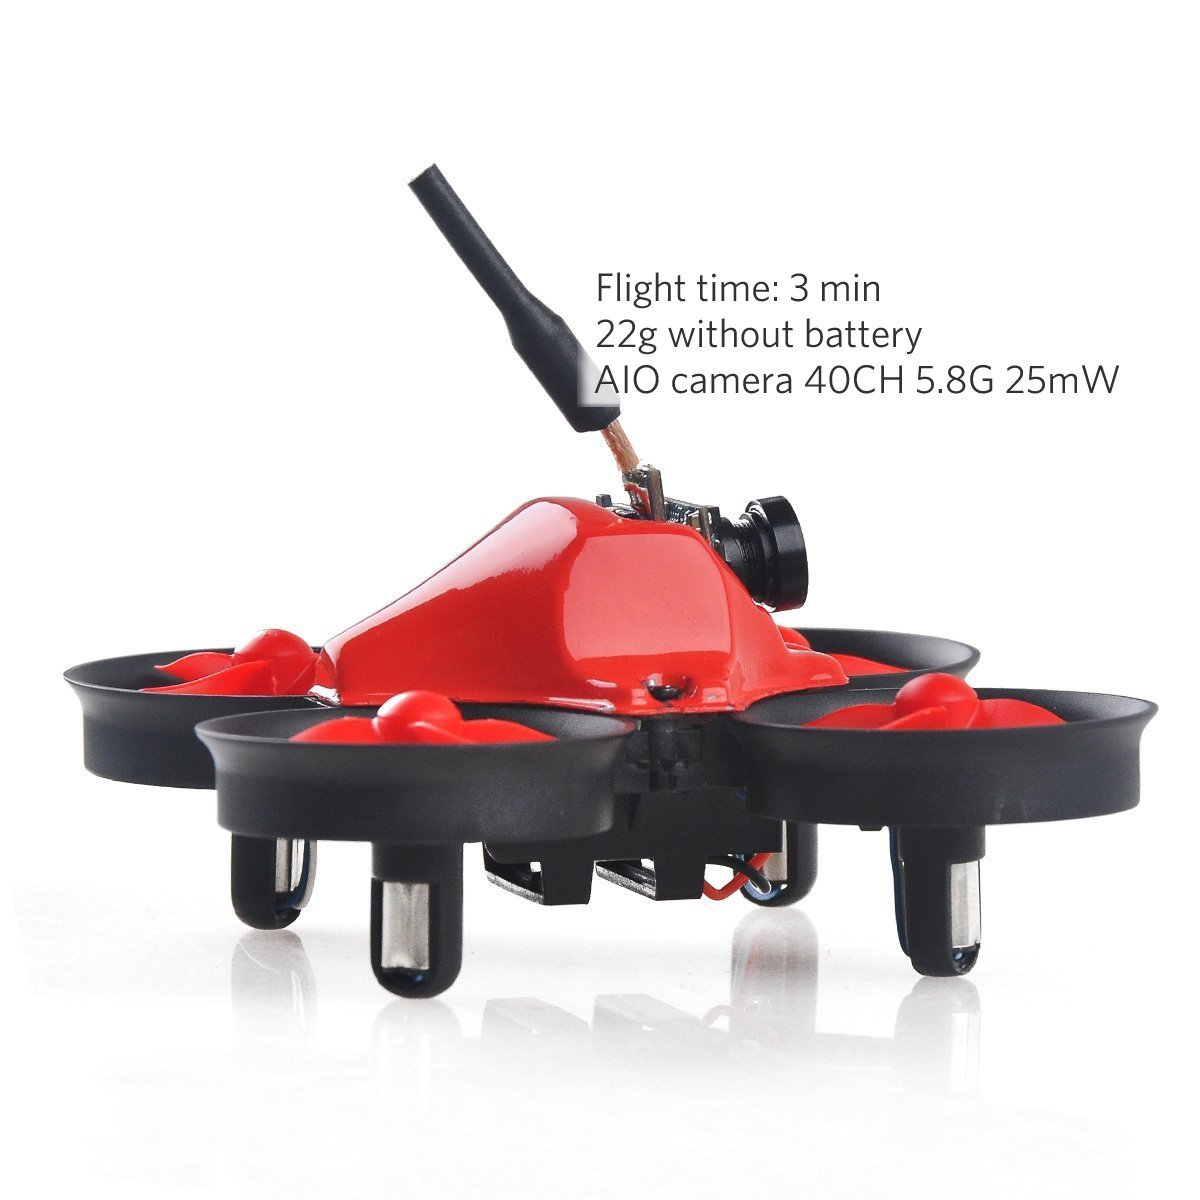
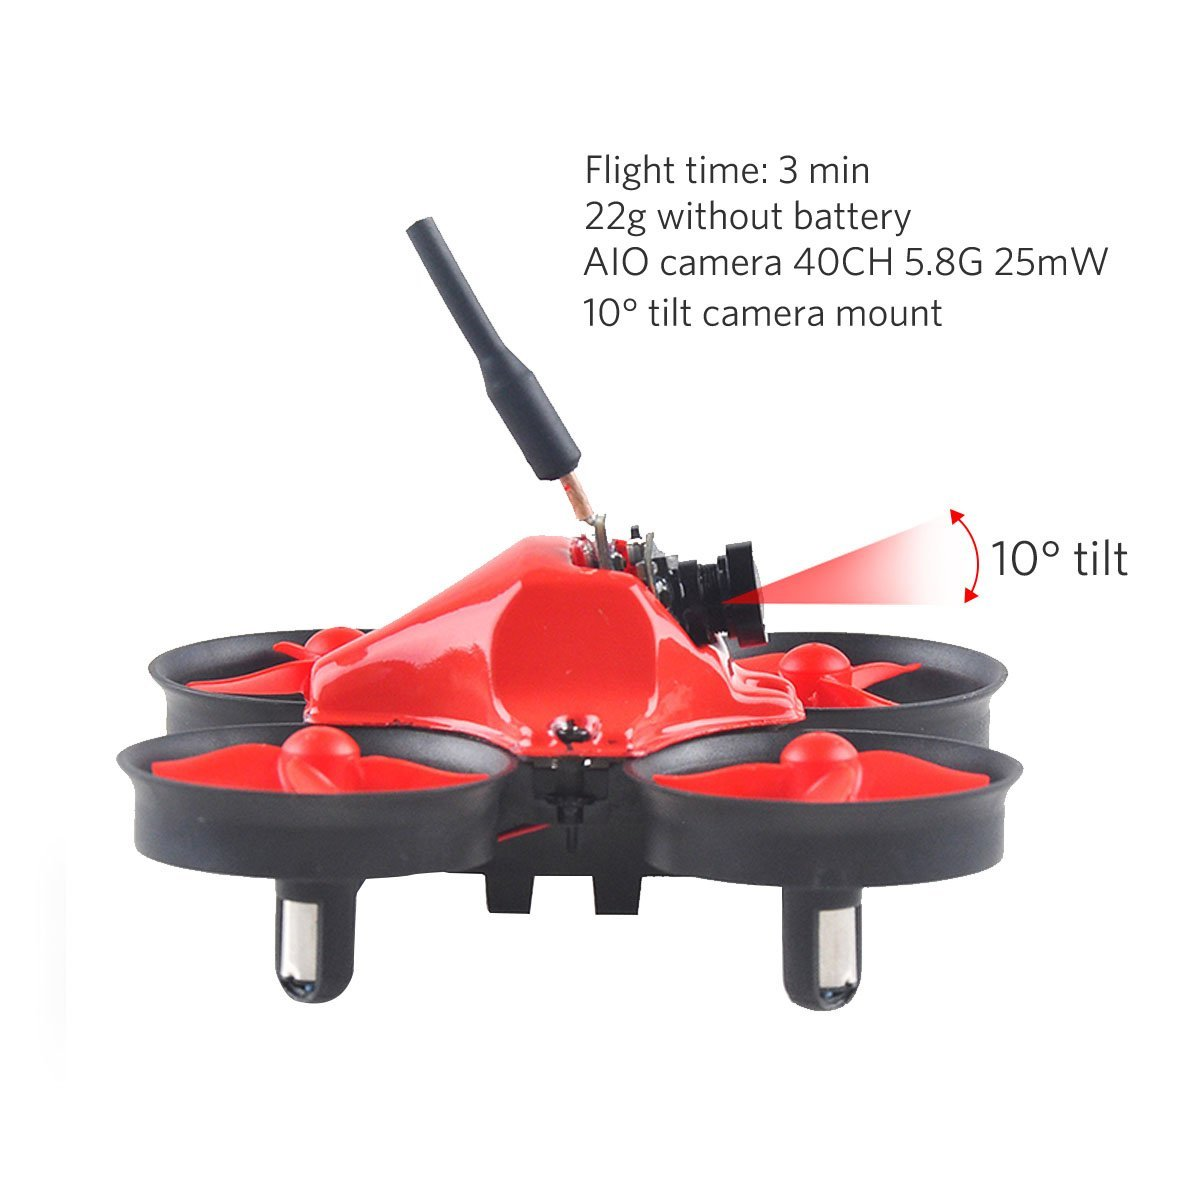
* 修改micro fpv页面

Changed region(s): [[0.0308, 0.1233, 0.9867, 0.8942], [0.8017, 0.4317, 0.8633, 0.4933], [0.8942, 0.4317, 0.925, 0.4933]]

diff --git a/products/mkf-micro-fpv.html b/products/mkf-micro-fpv.html
@@ -49,40 +49,55 @@ title: makerfire micro fpv indoor drone
       </div>
     </div>
 
+    <hr class="half-rule">
+
+    <div class="row text-left">
+      <div class="col-sm-6">
+        <p><strong>Native Spektrum DSM Receiver:</strong>Compatible with ALL Spektrum radiosor Spektrum compatible transmitter module.No more hacks, just bind and fly!</p>
+      </div>
+      <div class="col-sm-6">
+        <p><strong>F3 EVO flight controller:</strong>Fully programmable through Betalfight using the onboard USB port! Tune all the parameters, PID's, and rates to your perfect settings!</p>
+      </div>
+    </div>
 
     <!--- 图片行  -->
     <div class="row">
-      <div class="col-sm-3">
-    <a href="/assets/img/mkf-micro-fpv-8.jpg" title="" class="fancybox" rel="group">
+      <div class="col-sm-6">
         <img src="/assets/img/mkf-micro-fpv-8.jpg" alt="" class="img-responsive">
-    </a>
       </div>
-      <div class="col-sm-3">
-    <a href="/assets/img/mkf-micro-fpv-3.jpg" title="" class="fancybox" rel="group">
+      <div class="col-sm-6">
         <img src="/assets/img/mkf-micro-fpv-3.jpg" alt="" class="img-responsive">
-    </a>
       </div>
-      <div class="col-sm-3">
-        <a href="/assets/img/mkf-micro-fpv-6.jpg" title="" class="fancybox" rel="group">
-            <img src="/assets/img/mkf-micro-fpv-6.jpg" alt="" class="img-responsive">
-        </a>
+    </div>
+
+    <div class="row text-left">
+      <div class="col-sm-6">
+        <p><strong>17500kv these motors:</strong>Considerably more powerful than almost all of the motors used for Tiny Whoop style aircraft,without encountering considerable oscilations.</p>
       </div>
-      <div class="col-sm-3">
-    <a href="/assets/img/mkf-micro-fpv-5.jpg" title="" class="fancybox" rel="group">
-        <img src="/assets/img/mkf-micro-fpv-5.jpg" alt="" class="img-responsive">
-    </a>
+      <div class="col-sm-6">
+        <p><strong>10° tilt camera mount:</strong>Perfect angle for Tiny Whoop flight. At this angle the polit can still see everything ahead in full-blown fast forward flight.</p>
+      </div>
+    </div>
+
+    <!--- 图片行  -->
+    <div class="row">
+      <div class="col-sm-6">
+        <img src="/assets/img/mkf-micro-fpv-6.jpg" alt="" class="img-responsive">
+      </div>
+      <div class="col-sm-6">
+        <img src="/assets/img/mkf-micro-fpv-4.jpg" alt="" class="img-responsive">
       </div>
     </div>
 
     <div class="row text-left">
       <div class="col-sm-12">
+        <!--
         <p>Package Including:</p>
         <p>1 * Makerfire Micro FPV quad<br>
         1 * 220mAh 3.7v Lipo battery<br>
         1 * Service card</p>
         <img src="/assets/img/mkf-micro-fpv-pack.jpg" alt="" class="img-responsive">
-
-
+        -->
         <p>
             <a class="btn btn-large btn-danger" href="https://www.amazon.com/dp/B01MPY9W4Q" target="_blank">Buy on Amazon</a>
             <a class="btn btn-large btn-primary" href="" target="_blank">Download User Manual</a>

diff --git a/products/micro-fpv.html b/products/micro-fpv.html
@@ -9,7 +9,18 @@ title: micro fpv indoor drone
     <div class="row text-left">
       <div class="col-sm-12">
       <p class="text-center"><img class="img-responsive" src="/assets/img/micro-fpv-slide.jpg" alt=""></p>
-      <p>Thousands of Tiny Whoop owners were flying in places they never thought possible!The new MICRO FPV provides the freedom of flight in an FPV Ready Bind and Fly version. No soldering or 3D printing required!With its integrated Makerfire F3 Brushed FC ,Frsky Taranis X9D or Spektrum receiver, 25mW video transmitter, FPV camera, special sauce edition motors and 200mAh battery, the MICRO FPV is capable of flying in the smallest of places with ease and much more like a racing quad than a toy quad.</p>
+      <blockquote>
+      <p>Tiny Whoop is a small first-person-view aircraft that truly allows you to feel the gift of flight and the feeling of being tiny. A small apartment becomes a vast terrain worthy of taming. The small tree in your front yard is a deep and engaging forrest. With shrouded propellers we can now fly FPV around people and kids safely. It's more fun than I've ever had. </p>
+      </blockquote>
+      <p>The introduction above is from <a href="https://www.tinywhoop.com" target="_blank">Tiny Whoop</a> offical websize.Yes,this is really furious hobby to have a such micro drones.Thousands of Tiny Whoop owners were flying in places they never thought possible!The new MICRO FPV drone provides the freedom of flight in an FPV Ready Bind and Fly version.No soldering or 3D printing required,you get out-of-the-box FPV performance.</p>
+      </div>
+    </div>
+      
+    <hr class="half-rule">
+
+    <div class="row text-left">
+      <div class="col-sm-12">
+      <p><strong>Makerfire Micro FPV Series:</strong>Integrated F3 EVO Brushed FC ,Frsky Taranis X9D or Spektrum receiver, 25mW AIO video transmitter & camera, special sauce edition motors and 200mAh battery, this MICRO FPV is capable of flying in the smallest of places with ease and much more like a racing quad than a toy quad.</p>
       </div>
     </div>
 
@@ -31,6 +42,14 @@ title: micro fpv indoor drone
                 <h2>Makerfire RTF Micro FPV Base on Eachine E010</h2>
             </div>
         </div>
+    </div>
+
+    <hr class="half-rule">
+
+    <div class="row text-left">
+      <div class="col-sm-12">
+      <p><strong>Crazepony Micro FPV Series:</strong>Compared with the Tiny Whoop drones,the largest different in this serie is the propulsion system.With 2S battery,7*20mm or 8*20mm motors and 55mm or 66mm propellers,the crazepony micro series can bring flying experience more violence.Also the frames utilize high quality full carbon fiber that is precision machined for a superb fit-and-finish.</p>
+      </div>
     </div>
 
     <div class="row">
